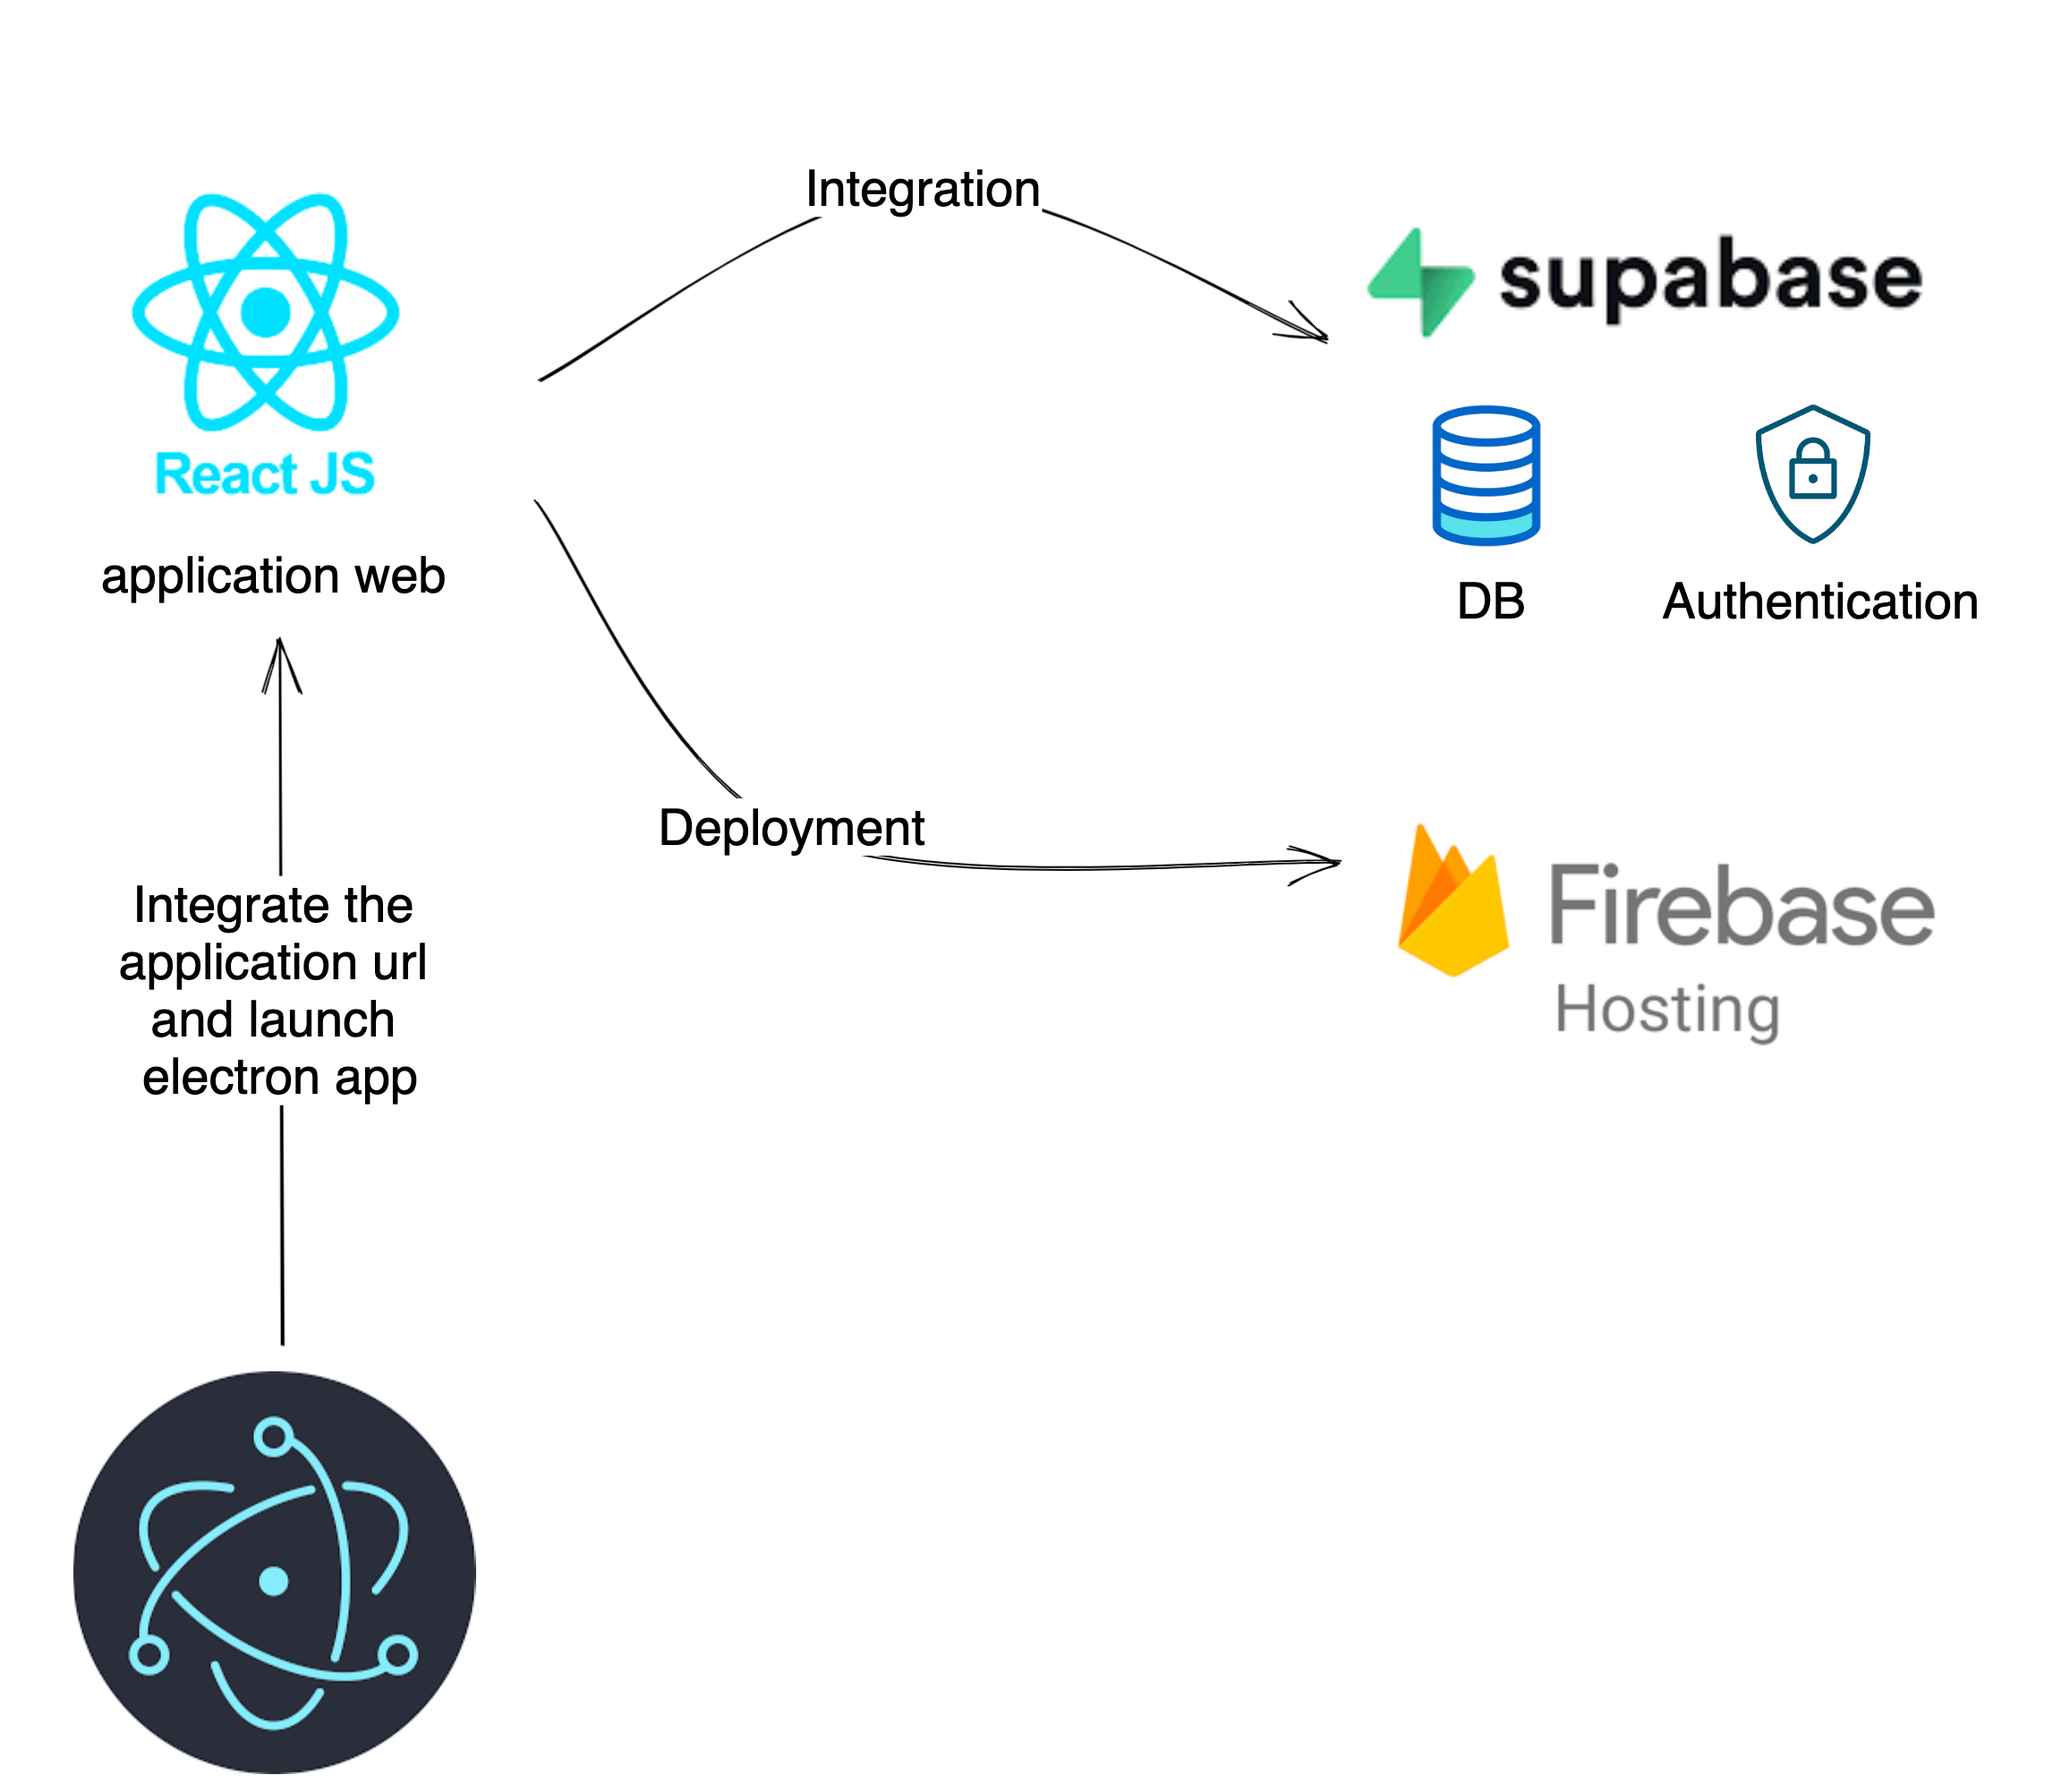
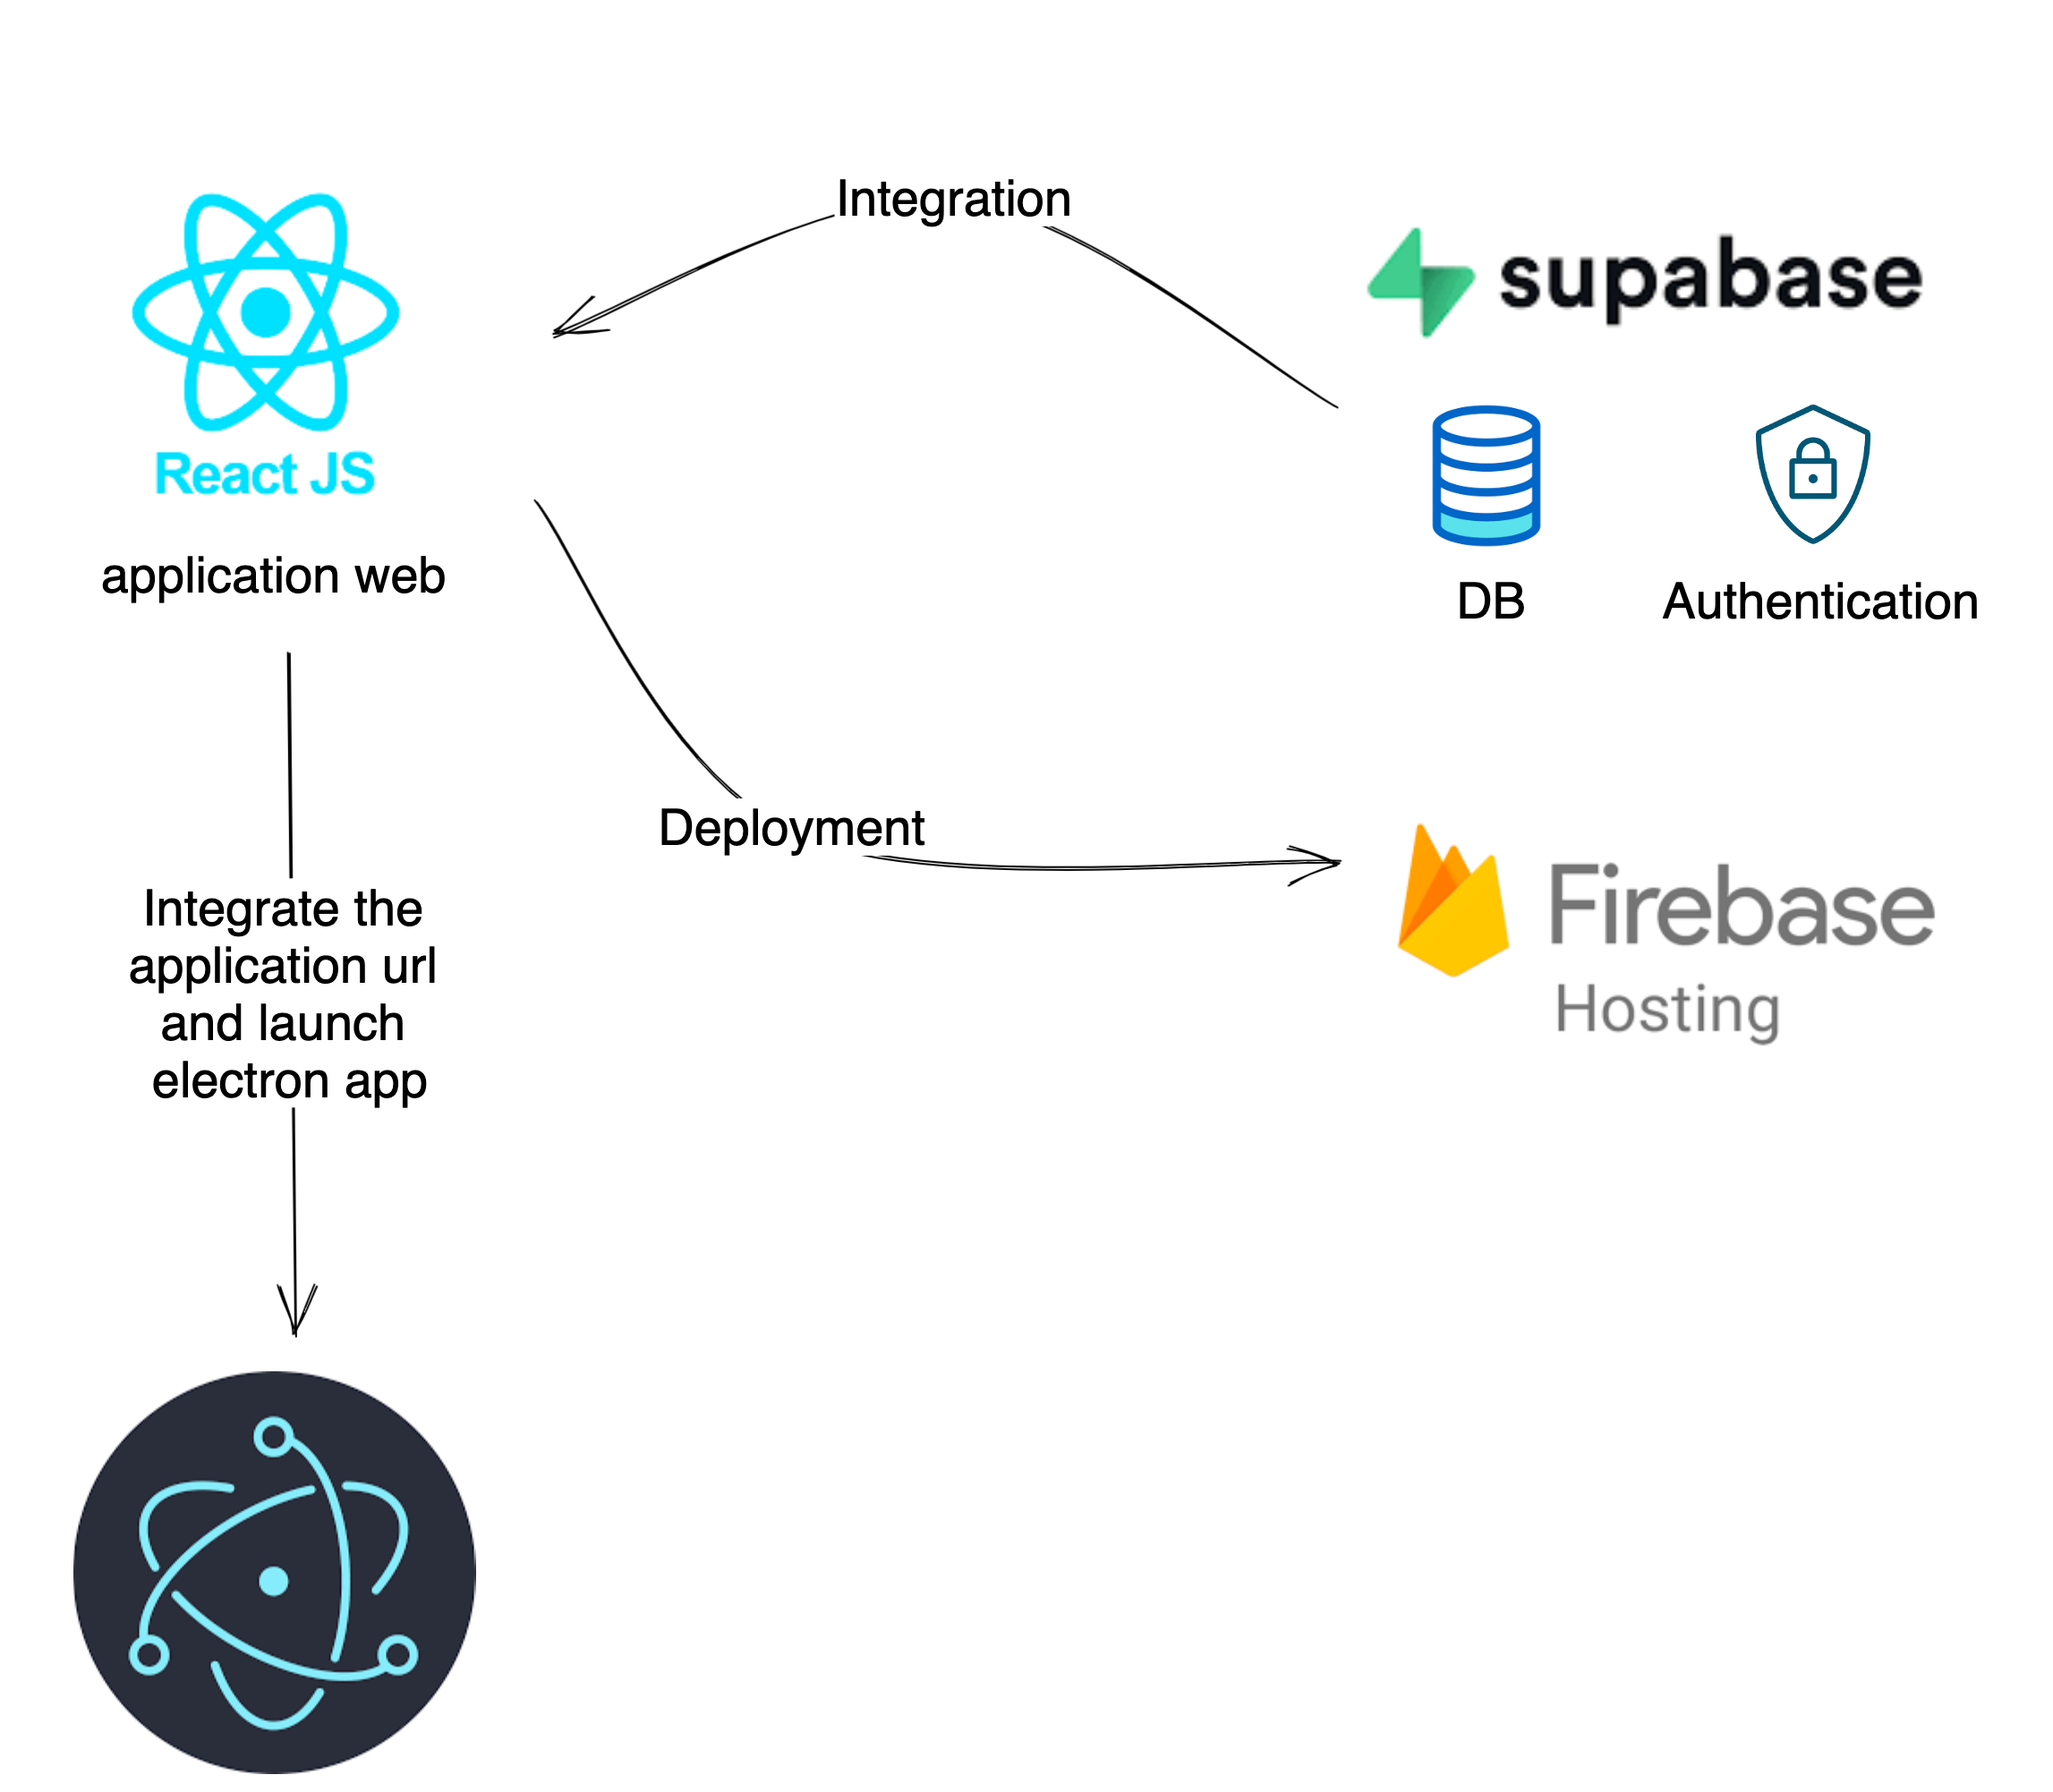
ok (#11)
* setup for opensource

* setup for opensource

* setup for opensource

* fix typo

* fix typo

* fix architecture image

* fix CONTRIBUTING.md

* optimize listing page

* update PR template

diff --git a/app/src/components/DarumaCard/DarumaCard.js b/app/src/components/DarumaCard/DarumaCard.js
@@ -32,6 +32,8 @@ function DarumaCard({
   typeDaruma = "chance",
   activeLeftPupil = true,
   activeRightPupil = true,
+  finishedDaruma,
+  notFinishedDaruma,
   setNotFinishedDaruma,
   setFinishedDaruma,
 }) {
@@ -101,6 +103,8 @@ function DarumaCard({
               id={id}
               userId={userId}
               isFinished={isFinished}
+              finishedDaruma={finishedDaruma}
+              notFinishedDaruma={notFinishedDaruma}
               setNotFinishedDaruma={setNotFinishedDaruma}
               setFinishedDaruma={setFinishedDaruma}
             />
@@ -115,6 +119,8 @@ function IconMenu({
   id,
   userId,
   isFinished,
+  finishedDaruma,
+  notFinishedDaruma,
   setNotFinishedDaruma,
   setFinishedDaruma,
 }) {
@@ -132,7 +138,16 @@ function IconMenu({
         .eq("id", id);
 
       if (!error) {
-        setFinishedDaruma((prev) => prev.filter((daruma) => daruma.id !== id));
+        setNotFinishedDaruma((prev) =>
+          prev.filter((daruma) => daruma.id !== id)
+        );
+        const { data, error } = await supabase
+          .from("daruma")
+          .select()
+          .eq("id", id)
+          .single();
+
+        setFinishedDaruma((prev) => [...prev, data]);
       }
     }
   };
@@ -143,6 +158,14 @@ function IconMenu({
         .from("daruma")
         .delete()
         .eq("id", id);
+
+      if (isFinished) {
+        setFinishedDaruma((prev) => prev.filter((daruma) => daruma.id !== id));
+      } else {
+        setNotFinishedDaruma((prev) =>
+          prev.filter((daruma) => daruma.id !== id)
+        );
+      }
     }
   };
 

diff --git a/app/src/pages/list/ListDarumaPage.js b/app/src/pages/list/ListDarumaPage.js
@@ -60,7 +60,7 @@ function ListDarumaPage() {
 
   useEffect(() => {
     fetchDaruma();
-  }, [fetchDaruma, finishedDaruma, notFinishedDaruma]);
+  }, [fetchDaruma]);
 
   if (!user) {
     return (
@@ -148,7 +148,7 @@ function ListDarumaPage() {
               </p>
             </div>
           )
-        ) : (
+        ) : finishedDaruma.length > 0 ? (
           finishedDaruma.map((daruma) => (
             <DarumaCard
               key={daruma.id}
@@ -161,10 +161,24 @@ function ListDarumaPage() {
               isFinished={daruma.is_finished}
               activeLeftPupil={daruma.active_left_pupil}
               activeRightPupil={daruma.active_right_pupil}
+              finishedDaruma={finishedDaruma}
+              notFinishedDaruma={notFinishedDaruma}
               setNotFinishedDaruma={setNotFinishedDaruma}
               setFinishedDaruma={setFinishedDaruma}
             />
           ))
+        ) : (
+          <div>
+            <img
+              src={undraw_adventure_map_hnin}
+              alt='adventure'
+              width='300'
+              height='300'
+            />
+            <p className='mt-8 font-bold '>
+              Vous n'avez aucun Daruma terminé ...
+            </p>
+          </div>
         )}
       </Box>
       <ThemeProvider theme={defaultTheme}>

diff --git a/app/src/pages/creation/CreationPage.js b/app/src/pages/creation/CreationPage.js
@@ -146,9 +146,7 @@ function CreationPage() {
         active_left_pupil: activeLeftPupil,
         active_right_pupil: activeRightPupil,
       };
-      //console.log(daruma);
 
-      // TODO: Enregistrer
       const { data: darumaSaved, error } = await supabase
         .from("daruma")
         .insert({ ...daruma, user_id: user.id })

diff --git a/app/src/pages/authentication/LoginPage.js b/app/src/pages/authentication/LoginPage.js
@@ -36,8 +36,6 @@ function LoginPage() {
       password,
     });
 
-    console.log(res);
-
     if (res.error) {
       toast.error(res.error.message);
     } else {

diff --git a/README.md b/README.md
@@ -7,14 +7,15 @@
 
 <!-- https://shields.io/ -->
 <p align="center">
-  <a href="https://github.com/Alexon1999/daruma-ball/blob/master/LICENCE">
+  <a href="https://github.com/Alexon1999/daruma-ball/blob/master/LICENSE">
     <img src="https://img.shields.io/badge/license-MIT-blue.svg" alt="React Native is released under the MIT license." />
+  </a>
+  <a href="https://app.fossa.com/projects/git%2Bgithub.com%2FAlexon1999%2Fdaruma-ball?ref=badge_shield" alt="FOSSA Status"><img src="https://app.fossa.com/api/projects/git%2Bgithub.com%2FAlexon1999%2Fdaruma-ball.svg?type=shield"/></a>
+  <a href="https://github.com/Alexon1999/daruma-ball/releases">
+    <img src="https://img.shields.io/badge/supported%20platforms-macOS%2C%20windows-orange" alt="releases" />
   </a>
   <a href="https://daruma-ball.web.app/">
     <img src="https://img.shields.io/website?url=https://daruma-ball.web.app" alt="Website" />
-  </a>
-  <a href="https://github.com/Alexon1999/daruma-ball/releases">
-    <img src="https://img.shields.io/badge/supported%20platforms-macOS%2C%20windows-orange" alt="releases" />
   </a>
 </p>
 
@@ -55,12 +56,14 @@ Daruma Ball is an open-source project. The concept is to create a to-do list app
 If you want to see how it's done, please refer to the [Documentation](docs/dev/README.md)
 
 
-## Contributing
-If you are interested in reporting/fixing issues and contributing directly to the code base, please see [CONTRIBUTING.md](CONTRIBUTING.md) for more information on what we're looking for and how to get started.
+## Contribution
+If you are interested in reporting/fixing issues and contributing directly to the code base, please read the [Contributing Guide](CONTRIBUTING.md) for more information on what we're looking for and how to get started.
 
 ##### :bulb: If you have any suggestions for new features or improvements for the app, we would love to hear them [Click here](https://github.com/Alexon1999/daruma-ball/discussions/3).
 
 
-## Licence
+## License
 
-[MIT](LICENCE)
+[**MIT**](LICENSE)
+
+[![FOSSA Status](https://app.fossa.com/api/projects/git%2Bgithub.com%2FAlexon1999%2Fdaruma-ball.svg?type=large)](https://app.fossa.com/projects/git%2Bgithub.com%2FAlexon1999%2Fdaruma-ball?ref=badge_large)

diff --git a/.github/PULL_REQUEST_TEMPLATE.md b/.github/PULL_REQUEST_TEMPLATE.md
@@ -1,26 +1,23 @@
 <!-- Please change the Answers in the table below to reflect the contents of your pull request. -->
 
-| Q                 | A
-| ----------------- | ---
-| Bug fix?          | yes/no
-| New feature?      | yes/no
-| Breaking changes? | yes/no
-| New tests added?  | yes/not needed
-| Fixed tickets     | Fixes #issue number (set to none if no tickets are fixed, repeat template for each issue fixed)
-| License           | MIT
+| Q                 | A                                                                                               |
+| ----------------- | ----------------------------------------------------------------------------------------------- |
+| Bug fix?          | yes/no                                                                                          |
+| New feature?      | yes/no                                                                                          |
+| Breaking changes? | yes/no                                                                                          |
+| New tests added?  | yes/not needed                                                                                  |
+| Fixed tickets     | Fixes #issue number (set to none if no tickets are fixed, repeat template for each issue fixed) |
+| License           | MIT                                                                                             |
 
 <!-- Bug fix : non-breaking change which fixes an issue -->
 <!-- New feature : non-breaking change which adds functionality -->
 <!-- Breaking change : fix or feature that would cause existing functionality to not work as expected-->
 
+
 ## Description
-
 <!-- Please provide a clear and detailed description of the changes made in this pull request. -->
-
-[Description of the bug or feature]
 
 
 ## Screenshots (if applicable)
-
 <!-- Please provide screenshots if the changes made are visual. -->
 

diff --git a/CODE_OF_CONDUCT.md b/CODE_OF_CONDUCT.md
@@ -60,7 +60,7 @@ representative at an online or offline event.
 
 Instances of abusive, harassing, or otherwise unacceptable behavior may be
 reported to the community leaders responsible for enforcement at
-*conduct@ethicalsource.dev*.
+*alexon.uthayakumar@gmail.com*.
 All complaints will be reviewed and investigated promptly and fairly.
 
 All community leaders are obligated to respect the privacy and security of the
